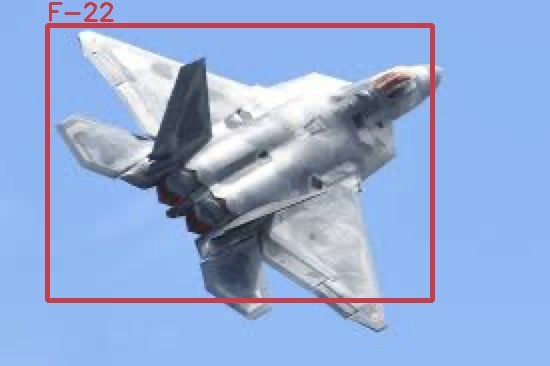
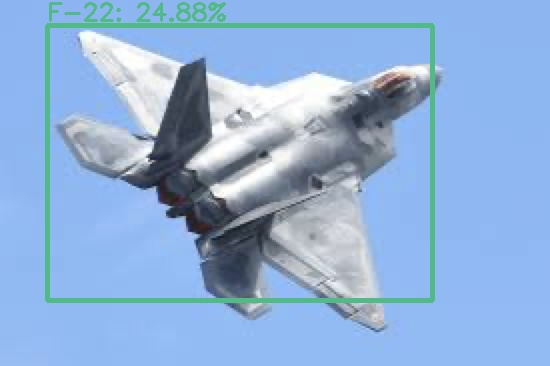
update images

Changed region(s): [[0.0618, 0.0, 0.8036, 0.8415]]

diff --git a/zsd.py b/zsd.py
@@ -7,7 +7,7 @@ from mmdet.core.post_processing import fast_nms, multiclass_nms
 
 from utils import *
 
-def zsd_detector(detector_model, clip_model, clip_preprocess, text, image_path, threshold=0.3, use_nms = True, score_thr=0.05, iou_threshold=0.5):
+def zsd_detector(detector_model, clip_model, clip_preprocess, text, image_path, threshold=0.3, use_nms = True, score_thr=0.05, iou_threshold=0.4):
     """零样本检测器
 
     Args:
@@ -112,9 +112,10 @@ def main():
     # image_path = "test-all/Littoral_Combat_Ship/LCS_223.jpg"
     # image_path = "test-all/M142_HIMARS/M142_2.jpg"
     # image_path = "test-all/MiG-29/mig29_15.jpg"
-    image_path = "test-all/RQ-4_Global_Hawk/rq4_24.jpg"
+    # image_path = "test-all/RQ-4_Global_Hawk/rq4_24.jpg"
     # image_path = "test-all/S-400/S400_5.jpg"
     # image_path = "test-all/Su-57/Su-57.png"
+    image_path = "images/F-22_1.png"
 
     # 初始化
     detector_model, clip_model, clip_preprocess, text, COLORS, description, classes = init()
